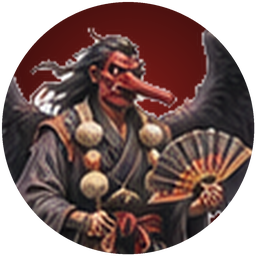
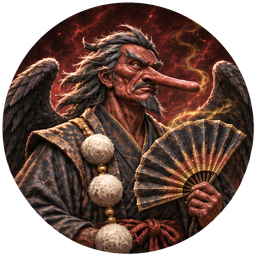
Бой армий: арт владельца из трёх атласов — нижняя панель, плашки, кнопка ВЫЙТИ, значки школ, кольца очереди, портреты
Claude-Session: https://claude.ai/code/session_01LguHwHJfSj1z4QgxREQaWs

diff --git a/Assets/_Project/Scripts/Game/Tactics.cs b/Assets/_Project/Scripts/Game/Tactics.cs
@@ -86,7 +86,7 @@ namespace BladePath
             new UnitType("Знамя клана", 5, 8, 2, 3, 20, 6, 0, -1) { cell = 9, up = true, live = "unit_banner2" },
             new UnitType("Гвардия сёгуна", 16, 18, 12, 22, 100, 6, 0, 3) { cell = 10, up = true, live = "unit_hatamoto2", liveH = 1.9f, dbl = true },
             new UnitType("Псы Они", 9, 5, 3, 6, 18, 10, 0, -99) { cell = 11, up = true, live = "unit_dog2", liveH = 1.0f, dbl = true },
-            new UnitType("Павшие воины", 5, 5, 2, 4, 10, 4, 0, 4) { portrait = "UI/portrait_fallen", live = "unit_fallen", undead = true },   // 24: некромантия
+            new UnitType("Павшие воины", 5, 5, 2, 4, 10, 4, 0, 4) { portrait = "UI/portrait_raised", live = "unit_fallen", undead = true },   // 24: некромантия
         };
         public const int RisenUnit = 24;
         public const int BaseUnits = 12;
@@ -98,7 +98,7 @@ namespace BladePath
             new UnitType("Ямабуси", 6, 5, 2, 4, 15, 5, 0, 7) { portrait = "UI/portrait_yamabushi", live = "unit_yamabushi", liveH = 1.76f },
             new UnitType("Дезертиры", 4, 5, 1, 3, 10, 4, 0, 8) { portrait = "UI/portrait_ashigaru", live = "unit_ashigaru" },
             new UnitType("Маски кицунэ", 8, 6, 3, 5, 18, 7, 6, 9) { portrait = "UI/portrait_kitsune", magic = true, live = "unit_kitsune", liveH = 1.64f, noMeleePen = true },
-            new UnitType("Поверженные", 7, 7, 3, 6, 25, 4, 0, 4) { portrait = "UI/portrait_fallen", live = "unit_fallen", liveH = 1.75f, undead = true },
+            new UnitType("Поверженные", 7, 7, 3, 6, 25, 4, 0, 4) { portrait = "UI/portrait_fallen2", live = "unit_fallen", liveH = 1.75f, undead = true },
             new UnitType("Клан теней", 9, 5, 3, 6, 15, 8, 0, 5) { portrait = "UI/portrait_shadow", noRetal = true, live = "unit_shadow" },
             new UnitType("Они", 14, 12, 12, 20, 100, 5, 0, 2) { portrait = "UI/portrait_oni", live = "unit_oni", liveH = 2.3f, sweep = true, wide = true, fireImmune = 1 },
             new UnitType("Сёгун", 16, 16, 20, 30, 180, 6, 0, 3) { portrait = "UI/portrait_shogun", live = "unit_shogun", liveH = 1.85f, dbl = true, unlimRet = true, undead = true, resist = 0.3f },
@@ -2082,7 +2082,10 @@ namespace BladePath
                 Rect r = new Rect(f.p.x - 120f, f.p.y - k * 34f, 240f, 24f);
                 // подложка: число урона читается и поверх плашек численности соседних рядов
                 float tw = Mathf.Min(236f, 16f + f.s.Length * 8.2f);
-                UiKit.Rect(new Rect(f.p.x - tw * 0.5f, r.y + 2f, tw, r.height - 4f), new Color(0.05f, 0.02f, 0.01f, 0.62f * c.a));
+                Texture2D rib = UiKit.Tex("UI/Battle/Kit/dmg_ribbon");
+                Rect rb = new Rect(f.p.x - tw * 0.62f, r.y - 3f, tw * 1.24f, r.height + 6f);
+                if (rib != null) { Color rc = GUI.color; GUI.color = new Color(1f, 1f, 1f, 0.9f * c.a); GUI.DrawTexture(rb, rib); GUI.color = rc; }
+                else UiKit.Rect(new Rect(f.p.x - tw * 0.5f, r.y + 2f, tw, r.height - 4f), new Color(0.05f, 0.02f, 0.01f, 0.62f * c.a));
                 UiKit.Text(new Rect(r.x + 1.5f, r.y + 1.5f, r.width, r.height), f.s, 16f, new Color(0f, 0f, 0f, c.a));
                 UiKit.Text(r, f.s, 16f, c);
             }
@@ -2175,8 +2178,17 @@ namespace BladePath
                 Color oc = GUI.color; if (i >= sep) GUI.color = new Color(1f, 1f, 1f, 0.55f);
                 DrawPortrait(pr, l[i].t);
                 GUI.color = oc;
-                UiKit.Ring(c, d * 0.5f, l[i].enemy ? new Color(0.85f, 0.25f, 0.2f, 0.95f) : new Color(0.4f, 0.75f, 1f, 0.95f), true);   // цвет стороны — тонко внутри золотого кольца
-                if (i == 0 && cur != null) UiKit.Ring(c, ringR + 3f, Gold, true);
+                // кольцо стороны (атлас Kit: синяя/красная эмаль) ложится на запечённое золотое гнездо; ход — сияющее золотое
+                float side = qh * 125f / 269f;
+                Texture2D ring = UiKit.Tex(l[i].enemy ? "UI/Battle/Kit/ring_foe" : "UI/Battle/Kit/ring_ours");
+                if (ring != null) GUI.DrawTexture(new Rect(c.x - side * 0.5f, c.y - side * 0.5f, side, side), ring);
+                else UiKit.Ring(c, d * 0.5f, l[i].enemy ? new Color(0.85f, 0.25f, 0.2f, 0.95f) : new Color(0.4f, 0.75f, 1f, 0.95f), true);
+                if (i == 0 && cur != null)
+                {
+                    Texture2D turnRing = UiKit.Tex("UI/Battle/Kit/ring_turn");
+                    float ts = side * 1.1f;
+                    if (turnRing != null) GUI.DrawTexture(new Rect(c.x - ts * 0.5f, c.y - ts * 0.5f, ts, ts), turnRing); else UiKit.Ring(c, ringR + 3f, Gold, true);
+                }
                 if (i == sep && sep < l.Count)
                 {
                     float x = (c.x + qr.x + qw * QueueSlotX[i - 1 < 0 ? 0 : i - 1] / 1214f) * 0.5f;
@@ -2201,8 +2213,23 @@ namespace BladePath
             var hud=new HudLayout(SafeHud());
             // фон панели — от края до края экрана и до самого низа (вырез под камеру не оставляет пустую полосу); содержимое — в безопасной зоне
             Rect footerBand=new Rect(0f,hud.footer.y,W,540f-hud.footer.y);
-            UiKit.Rect(footerBand,new Color(.045f,.028f,.022f,.90f));
-            UiKit.Rect(new Rect(footerBand.x,footerBand.y,footerBand.width,1f),new Color(.63f,.44f,.21f,.85f));
+            Texture2D bar=UiKit.Tex("UI/Battle/Kit/hud_bar");
+            if(bar!=null)
+            {   // полоса атласа Kit (1515×235, тело с 66-й строки, выше — герб по центру): тело — на всю панель, герб не растягивается
+                float bk=footerBand.height/(235f-66f);
+                UiKit.Slice(new Rect(0f,footerBand.y-66f*bk,W,235f*bk),bar,bk,0.015f,0.26f,0.5f,0f,Color.white);
+                Texture2D logPlate=UiKit.Tex("UI/Battle/Kit/hud_log");
+                if(logPlate!=null)
+                {
+                    Rect o=hud.orders; float lk=(o.height+8f)/307f;
+                    UiKit.Slice(new Rect(o.x-4f,o.y-6f,o.width+8f,o.height+8f),logPlate,lk,0.06f,0.3f,0.5f,0f,Color.white);
+                }
+            }
+            else
+            {
+                UiKit.Rect(footerBand,new Color(.045f,.028f,.022f,.90f));
+                UiKit.Rect(new Rect(footerBand.x,footerBand.y,footerBand.width,1f),new Color(.63f,.44f,.21f,.85f));
+            }
             Rect h=hud.hero;
             Rect hp=new Rect(h.x+2f,h.y+1f,30f,30f);
             General.DrawFace(hp);
@@ -2214,8 +2241,10 @@ namespace BladePath
                 Spell sp=Spells[QuickSpells[i]];
                 Rect r=new Rect(h.x+1f+i*34f,h.yMax-29,28,28);
                 bool can=CanCast(sp);
+                Texture2D roundSlot=UiKit.Tex("UI/Battle/Kit/hud_round");
+                if(roundSlot!=null) GUI.DrawTexture(new Rect(r.x-3f,r.y-3f,r.width+6f,r.height+6f),roundSlot);   // золотая оправа умения (атлас Kit) — под значком: середина у неё непрозрачная
                 Color oc=GUI.color;GUI.color=can?Color.white:new Color(1,1,1,.38f);
-                SpellIcon(r,sp.icon);GUI.color=oc;
+                SpellIcon(new Rect(r.x+3f,r.y+3f,r.width-6f,r.height-6f),sp.icon);GUI.color=oc;
                 if(spellSel==QuickSpells[i]) UiKit.Ring(r.center,15f,Gold,true);
                 if(GUI.Button(r,GUIContent.none,GUIStyle.none) && can) Select(QuickSpells[i]);
             }
@@ -2232,7 +2261,7 @@ namespace BladePath
                 if(t!=null) GUI.DrawTexture(icon,t); else UiKit.Rect(icon,new Color(.3f,.1f,.05f));
                 GUI.color = oc;
                 Rect band=new Rect(r.x,r.yMax-18,r.width,18);
-                Texture2D plate=UiKit.Tex("UI/Battle/count_plaque");
+                Texture2D plate=UiKit.Tex("UI/Battle/Kit/hud_slot_label")??UiKit.Tex("UI/Battle/count_plaque");
                 if(plate) GUI.DrawTexture(band,plate);
                 Label(new Rect(band.x+band.width*.14f,band.y+band.height*.16f,band.width*.72f,band.height*.68f),tips[i],10f,on?Ink:Dim);   // внутри рамки плашки
                 if (!GUI.Button(r, GUIContent.none, GUIStyle.none) || !on) continue;
@@ -2295,6 +2324,15 @@ namespace BladePath
             for (int t = 0; t < 4; t++)
             {
                 Rect tr = new Rect(r.x + 1430f * k, r.y + (222f + t * 150f) * k, 140f * k, 80f * k);
+                // значок школы (атлас Kit) — на месте цветка закладки (x≈1542, y≈262+150·t на картине книги)
+                Texture2D em = UiKit.Tex("UI/Battle/Kit/school_" + t);
+                if (em != null)
+                {
+                    float es = (t == bookPage ? 74f : 64f) * k;
+                    Color ec = GUI.color; if (t != bookPage) GUI.color = new Color(0.78f, 0.78f, 0.78f, 1f);
+                    GUI.DrawTexture(new Rect(r.x + 1542f * k - es * 0.5f, r.y + (262f + t * 150f) * k - es * 0.5f, es, es), em);
+                    GUI.color = ec;
+                }
                 Label(new Rect(tr.x + 4f * k, tr.y, tr.width * 0.62f, tr.height), Realm.SchoolName(t), 9.5f, t == bookPage ? Gold : Dim);
                 if (GUI.Button(tr, GUIContent.none, GUIStyle.none)) { bookPage = t; bookFocus = -1; }
             }
@@ -2354,9 +2392,22 @@ namespace BladePath
             // картина — окно найма: ползунок численности здесь не нужен — закрыт плашкой со способностью отряда,
             // а численность — в левой плашке-кнопке (раньше надпись ложилась на ползунок, левая кнопка была пустой)
             Rect band = new Rect(r.x + r.width * 0.428f, r.y + r.height * 0.622f, r.width * 0.536f, r.height * 0.128f);
-            UiKit.Rect(band, new Color(0.17f, 0.05f, 0.035f, 1f));
-            UiKit.Rect(new Rect(band.x + 4f, band.y + 3f, band.width - 8f, band.height - 6f), new Color(0.11f, 0.035f, 0.025f, 1f));
-            Label(new Rect(band.x + 8f, band.y + 4f, band.width - 16f, band.height - 8f), s.t.Ability.Length > 0 ? s.t.Ability : "без особых способностей", 11f, s.t.Ability.Length > 0 ? Gold : Dim, TextAnchor.MiddleCenter, true);
+            Texture2D lp = UiKit.Tex("UI/Battle/Kit/long_plaque");
+            Rect body = band;
+            if (lp != null)
+            {   // плашка атласа Kit (930×205, тело с 60-й строки — выше герб): тело плашки ровно на месте ползунка
+                float kk = band.height / (205f - 60f);
+                Rect pr = new Rect(band.x, band.y - 60f * kk, band.width, 205f * kk);
+                UiKit.Rect(new Rect(band.x + 2f, band.y + 1f, band.width - 4f, band.height - 2f), new Color(0.17f, 0.05f, 0.035f, 1f));   // ползунок под плашкой не просвечивает
+                UiKit.Slice(pr, lp, kk, 0.07f, 0.4f, 0.5f, 0f, Color.white);
+                body = new Rect(band.x + band.width * 0.06f, band.y + band.height * 0.12f, band.width * 0.88f, band.height * 0.72f);
+            }
+            else
+            {
+                UiKit.Rect(band, new Color(0.17f, 0.05f, 0.035f, 1f));
+                UiKit.Rect(new Rect(band.x + 4f, band.y + 3f, band.width - 8f, band.height - 6f), new Color(0.11f, 0.035f, 0.025f, 1f));
+            }
+            Label(body, s.t.Ability.Length > 0 ? s.t.Ability : "без особых способностей", 11f, s.t.Ability.Length > 0 ? Gold : Dim, TextAnchor.MiddleCenter, true);
             Label(new Rect(r.x + r.width * 0.462f, r.y + r.height * 0.775f, r.width * 0.21f, r.height * 0.1f), "Бойцов: " + s.count + " из " + s.start, 11f, Ink);
             if (HudButton(new Rect(r.x + r.width * 0.7f, r.y + r.height * 0.77f, r.width * 0.22f, r.height * 0.12f), "ЗАКРЫТЬ", true, false)) info = null;
         }
@@ -2388,10 +2439,10 @@ namespace BladePath
                     DrawPortrait(new Rect(c.x - d * 0.5f, c.y - d * 0.5f, d, d), st.t);
                     GUI.color = oc;
                     // число потерь — на плашке под кольцом (кольцо на картине r=69 при портрете 128), а не тёмным прямоугольником шире круга
-                    Rect pl = new Rect(c.x - d * 0.31f, c.y + d * 0.40f, d * 0.62f, d * 0.24f);
-                    Texture2D badge = UiKit.Tex("UI/Battle/count_plaque");
+                    Rect pl = new Rect(c.x - d * 0.34f, c.y + d * 0.38f, d * 0.68f, d * 0.34f);
+                    Texture2D badge = UiKit.Tex("UI/Battle/Kit/count_badge") ?? UiKit.Tex("UI/Battle/count_plaque");
                     if (badge != null) GUI.DrawTexture(pl, badge); else UiKit.Rect(pl, new Color(0.08f, 0.03f, 0.02f, 0.9f));
-                    Label(new Rect(pl.x + pl.width * 0.12f, pl.y + pl.height * 0.1f, pl.width * 0.76f, pl.height * 0.8f), lost > 0 ? "−" + lost : "0", 10.5f, lost > 0 ? new Color(1f, 0.6f, 0.5f) : Dim);
+                    Label(new Rect(pl.x + pl.width * 0.2f, pl.y + pl.height * 0.26f, pl.width * 0.6f, pl.height * 0.5f), lost > 0 ? "−" + lost : "0", 10.5f, lost > 0 ? new Color(1f, 0.6f, 0.5f) : Dim);
                     q++;
                 }
             }
@@ -2408,7 +2459,18 @@ namespace BladePath
                 else ShowDev((region + 1) % 3);
                 return;
             }
-            if (mapNode < 0 && neutralDone == null && HudButton(Px(1000, 920, 190, 64), "ВЫЙТИ", true, false)) Close();   // справа от главной кнопки, не на углу рамки
+            if (mapNode < 0 && neutralDone == null)
+            {   // второстепенная кнопка (атлас Kit) справа от главной, не на углу рамки
+                Rect xb = Px(990, 921, 230, 68);
+                Texture2D sec = UiKit.Tex("UI/Battle/Kit/btn_secondary");
+                if (sec != null)
+                {
+                    GUI.DrawTexture(xb, sec);
+                    Label(new Rect(xb.x + xb.width * 0.12f, xb.y + xb.height * 0.2f, xb.width * 0.76f, xb.height * 0.6f), "ВЫЙТИ", 13f, Ink);
+                    if (GUI.Button(xb, GUIContent.none, GUIStyle.none)) Close();
+                }
+                else if (HudButton(xb, "ВЫЙТИ", true, false)) Close();
+            }
         }
 
         static void DrawResultPlain()
